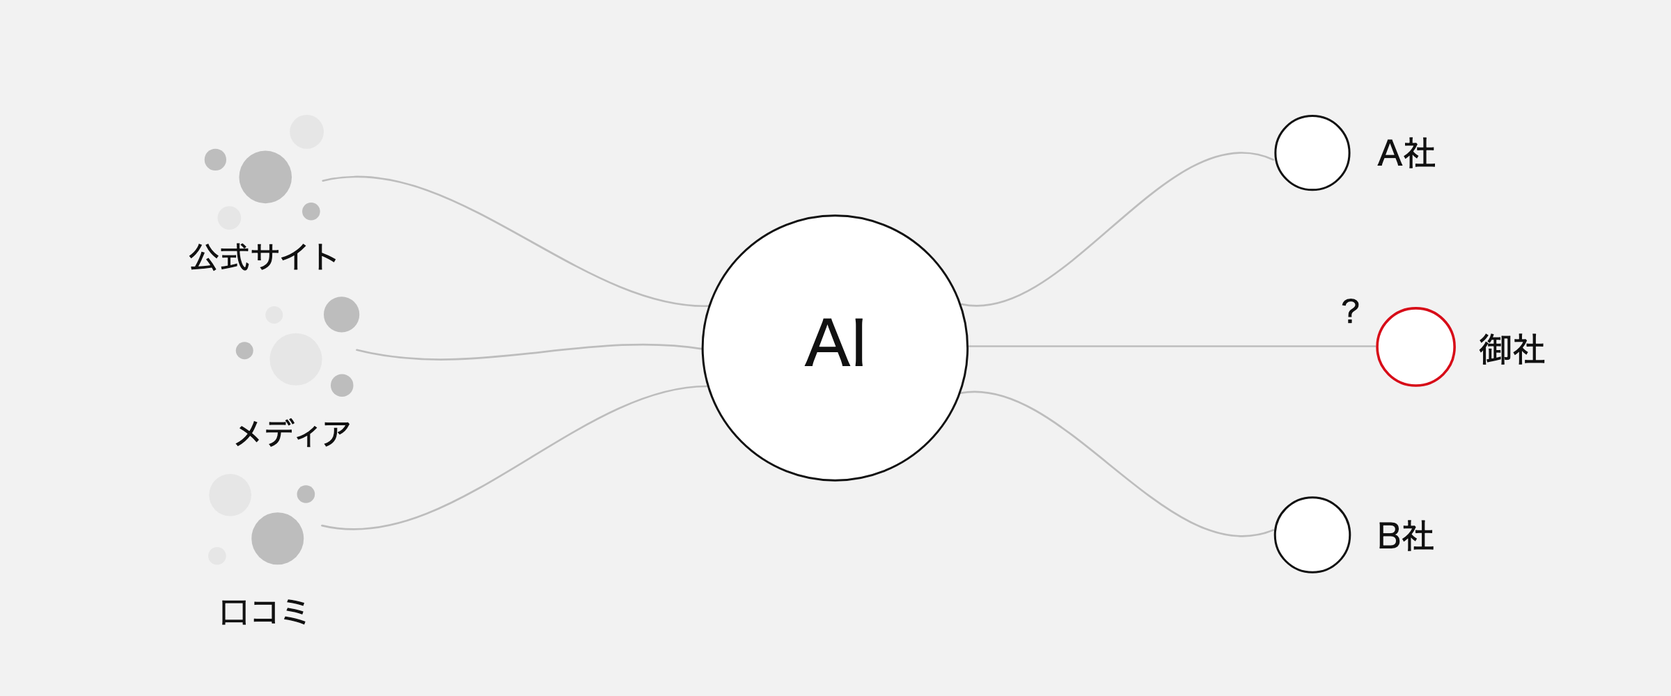
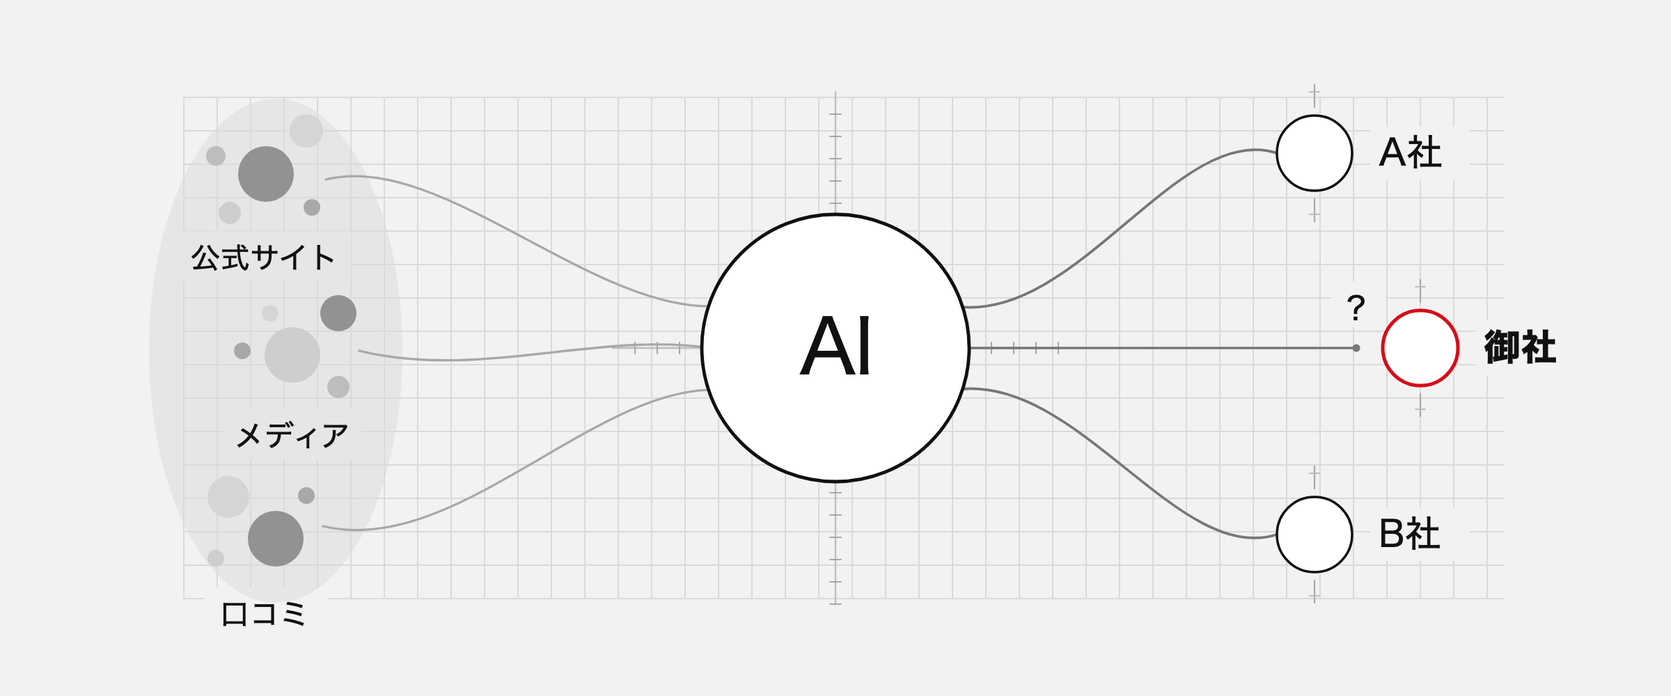
AI検索対策ページ：ヒーローの図を、地図の案に差し替え

diff --git a/ai-search.html b/ai-search.html
@@ -4,7 +4,7 @@
 <nav class="nav" id="site-nav"><div class="business-nav">
 <div class="business-nav-heading"><a href="index.html#business" id="business-link">事業</a><button aria-controls="business-submenu" aria-expanded="false" aria-label="事業のメニューを開閉" class="business-toggle" type="button"></button></div>
 <div class="business-submenu" id="business-submenu" inert=""><div class="business-submenu-inner"><ul><li><a href="ai-search.html">AI検索対策</a></li><li><span class="soon-item">音声AI日報 VoyLog（準備中）</span></li></ul></div></div>
-</div><a href="index.html#results">実績</a><a href="index.html#news">ニュース</a><a href="index.html#company">会社概要</a><a class="contact" href="index.html#contact">お問い合わせ</a></nav></div></header><main><section class="ai-hero"><div class="wrap"><p class="crumb"><a href="index.html">トップ</a> / AI検索対策</p><div class="hero-grid"><div><h1><span>AI検索対策</span>ChatGPTなどのAIは、<br/>御社をどう<br class="pc"/>紹介していますか？</h1><p class="answer">AIが御社を正しく紹介するよう、AIの回答とその根拠のページを調べ、対<span class="keep-ending">策を提案します。</span>simpleAは、AI検索を研究し<span class="keep-ending">ている会社です。</span></p><a class="bar-link" href="contact.html">AI検索対策について相談する <span aria-hidden="true">→</span></a></div><figure class="hero-visual"><img src="img/figures/hero.png" alt="AIが会社を紹介する仕組みのイメージ図。公式サイト・メディア・口コミの情報がAIに集まり、AIがA社、B社、御社などの会社を紹介する。御社がどう紹介されているかは、？で示している。" width="2400" height="1000"/><figcaption class="source">図は、イメージです。会社名は架空です。</figcaption></figure></div><nav aria-label="このページの内容" class="page-nav"><a href="#concerns">お悩み</a><a href="#why">なぜ必要か</a><a href="#package">支援内容</a><a href="#features">選ばれる理由</a><a href="#results">成果・実績</a><a href="#faq">よくある質問</a></nav></div></section><section class="ai-section" id="concerns"><div class="wrap"><h2>こんなお悩みはありませんか？</h2><p class="answer">自社が紹介されない理由も、紹介内容が違う理由も、simpleAが、AIの回答と、AIが根拠にしたページを調<span class="keep-ending">べて確かめます。</span></p><figure class="figure-wide"><img src="img/figures/concerns.png" alt="お悩みの吹き出しの絵。「ChatGPTに聞いても、自社の名前が出てこない」「AIが、競合ばかり紹介する」「AIが、古い情報や間違った情報で紹介する」「検索順位は高いのに、問い合わせが減った」「何から手をつければよいか分からない」。" width="2400" height="1000" loading="lazy"/></figure><div class="sr-only"><ul class="concern-list"><li><p>ChatGPTに聞いても、<br/>自社の名前が出てこない</p></li><li><p>AIが、競合ばかり<br/>紹介する</p></li><li><p>AIが、古い情報や間違った情報で<br/>紹介する</p></li><li><p>検索順位は高いのに、<br/>問い合わせが減った</p></li><li><p>何から手をつければ<br/>よいか分からない</p></li></ul></div></div></section><section class="ai-section soft" id="why"><div class="wrap"><h2>Google検索対策とAI検索対策は同じ？</h2><p class="answer">同じではありません。検索で上位でも、AIの回答に入る<span class="keep-ending">とは限りません。</span>商品や取引先をAIに相談する人がいるので、検索順位に加えて、AIが御社をどう紹介しているかも確かめる<span class="keep-ending">必要があります。</span></p><figure class="figure-wide"><img src="img/figures/compare.png" alt="検索とAIの違いの絵。左の従来の検索では、お客さまが何十件ものリンクを1社ずつ見て絞る。右のAIへの相談では、AIがA社を1社だけおすすめし、お客さまがその1社を選ぶ。御社は、おすすめされていない。" width="2400" height="960" loading="lazy"/><figcaption class="source">探し方の違いを示すイメージです。AIが紹介する社数は質問・サービスによって変わります。<a href="https://www.link-j.org/member_event/article-54489.html">関連するセミナーの説明（LINK-J）</a></figcaption></figure><div class="statistics"><figure class="data-figure"><h3>検索の手段として生成AIを使う人</h3><div aria-label="検索の手段として生成AIを使う人。2025年5月 21.3%、2026年8月 52.3%。すべて0から100%の共通尺度。" class="bars" role="img"><div class="bar-row"><span>2025年5月</span><div class="bar-track"><i class="" style="width:21.3%"></i></div><strong>21.3%</strong></div><div class="bar-row"><span>2026年8月</span><div class="bar-track"><i class="current" style="width:52.3%"></i></div><strong>52.3%</strong></div></div><figcaption class="source">出所：<a href="https://www.cyberagent-adagency.com/news/1043/">サイバーエージェント（2026年9月4日）</a>。2026年8月期は全国9,278人、AI Modeを含む。</figcaption></figure><figure class="data-figure"><h3>Googleより先にAIで調べ始める<br/>B2Bソフトウェア購入担当者</h3><div aria-label="Googleより先にAIで調べ始めるB2Bソフトウェア購入担当者。2025年 29%、2026年 51%。すべて0から100%の共通尺度。" class="bars" role="img"><div class="bar-row"><span>2025年</span><div class="bar-track"><i class="" style="width:29%"></i></div><strong>29%</strong></div><div class="bar-row"><span>2026年</span><div class="bar-track"><i class="current" style="width:51%"></i></div><strong>51%</strong></div></div><figcaption class="source">出所：<a href="https://learn.g2.com/g2-2026-ai-search-insight-report">G2「The Answer Economy」</a>。2026年3月、購入判断に関わる1,076人を調査。</figcaption></figure><figure class="data-figure"><h3>検索結果をクリックせずに終わった、<br/>米国のGoogle検索の割合</h3><div aria-label="検索結果をクリックせずに終わった、米国のGoogle検索の割合。2024年 60%、2026年1〜4月 68%。すべて0から100%の共通尺度。" class="bars" role="img"><div class="bar-row"><span>2024年</span><div class="bar-track"><i class="" style="width:60%"></i></div><strong>60%</strong></div><div class="bar-row"><span>2026年1〜4月</span><div class="bar-track"><i class="current" style="width:68%"></i></div><strong>68%</strong></div></div><figcaption class="source">出所：<a href="https://sparktoro.com/blog/zero-click-search-what-still-works/">SparkToro（2026年6月9日）</a>。米国のGoogle検索が対象。2024年とは、調査会社が集めた回答<span class="keep-ending">者が異なります。</span>AIだけの影響を示す値ではありません。</figcaption></figure></div><p class="source">グラフの棒は、いずれも0〜100%<span class="keep-ending">の同じ尺度です。</span>対象者・地域・調査方法が異なるため、3つの調査の数値同士は<span class="keep-ending">比較できません。</span></p><details class="research-note"><summary>AIが公式情報と異なる内容を答えることもあります</summary><p>simpleAの調査では、AIが書いた乳酸菌の学名86件のうち5件が、公式資料と異<span class="keep-ending">なっていました。</span></p><p class="source">出所：simpleA調査（2026年<span class="keep-ending">10月21日）。</span>4つのAIに50問ずつ質問し、公式資料で確認できた学名の記述86件<span class="keep-ending">を照合しました。</span>一致は74件、不一致は5件、判定できなかっ<span class="keep-ending">たのは7件です。</span>AI全体の正確さを示すもの<span class="keep-ending">ではありません。</span></p></details></div></section><section class="ai-section" id="package"><div class="wrap"><h2><span class="heading-phrase">何をしてもらえますか？</span><span class="heading-phrase">どのくらいかかりますか？</span></h2><p class="answer">サービスは2つあります。1つ目は、調査・改善支援・効果検証をセットにした「3か月支援パッケージ」。2つ目は、そのあとも続けて支援する「顧問契約」です。</p><p class="flow-duration"><span>サービス1　3か月支援パッケージ</span><span aria-hidden="true" class="duration-rule"></span><span>調査から効果検証まで、最短3か月</span></p><figure class="figure-wide"><img src="img/figures/service3.png" alt="サービスの3つのステップの絵。01 調査：simpleAがAIの回答に自社と競合がどう出るかを調べる。02 改善支援：simpleAが改善仕様書を作って改修の内容を説明する。03 効果検証：simpleAが同じ質問で対策の前と後を比べる。" width="2400" height="900" loading="lazy"/><figcaption class="source">対策前・対策後の絵は、イメージです。実績値ではありません。</figcaption></figure><ol aria-label="調査、改善支援、効果検証の順に進めます" class="service-flow"><li><h3><span>01</span>調査</h3><h4>AIは、自社と競合をどう紹介しているか</h4><p>複数のAIの回答と、その根拠のペー<span class="keep-ending">ジを解析します。</span>AIが紹介している内容と、間違いがな<span class="keep-ending">いかを調べます。</span></p><div class="deliverables"><p>選べる納品物</p><ul><li>AI検索対策 自社WEBサイト評価レポート</li><li>競合WEBサイト分析レポート</li><li>全質問とAI回答のリスト</li></ul></div></li><li><h3><span>02</span>改善支援</h3><h4>直す内容と優先順位を決める</h4><p>改善仕様書を作ります。御社または制作パートナーが改修するときは、内容を説明し、仕上が<span class="keep-ending">りを確認します。</span></p><div class="deliverables"><p>選べる納品物</p><ul><li>既存WEBサイトの詳細改善仕様書</li><li>紹介を依頼するとよい外部メディアのリスト</li></ul></div></li><li><h3><span>03</span>効果検証</h3><h4>同じ条件で、前後を比べる</h4><p>同じ質問でもう一度調べ、AIの回答に引用される割合と、AIの間違いの有無を、対策の<span class="keep-ending">前後で比べます。</span></p><div class="deliverables"><p>選べる納品物</p><ul><li>各種レポートの対策前後比較</li></ul></div></li></ol><p class="deliverable-intro">納品物は、上記の6項目から必要に<span class="keep-ending">応じて選べます。</span></p><div class="advisory"><p class="flow-duration"><span>サービス2　顧問契約</span><span aria-hidden="true" class="duration-rule"></span><span>3か月支援パッケージのあとも、長期的に</span></p><ul><li>3か月支援パッケージの終了後も、一緒に取り組みながら支援します。</li><li>コーポレート全体のAI検索対策を、幅広く長期的に支援します。</li><li>マスメディア、人材紹介、不動産関連、自治体など、日々多くの情報を発信している会社には、最初から顧問契約をおすすめする<span class="keep-ending">場合があります。</span>特定のページを短期間で調査・改善する<span class="keep-ending">のではなく、</span>中長期的な取り組みが必要<span class="keep-ending">になるためです。</span></li></ul></div><p class="source">期間は<span class="keep-ending">最短の目安です。</span>外部メディアに掲載されることや、AIが御社を紹介することを、保証するもの<span class="keep-ending">ではありません。</span></p></div></section><section class="ai-section" id="features"><div class="wrap"><h2>AI検索対策の会社は、何で選べばよいですか？</h2><p class="answer">simpleAは、研究と実測の結果を示しながら、実際に効果のある<span class="keep-ending">対策を選びます。</span>制作の受注は目的にせず、調査・提案と、制作の<span class="keep-ending">支援を行います。</span></p><div class="reason-list"><article><div><h3>AI検索を研究している</h3><p>代表<span class="keep-ending">は博士（工学）。</span>論文を読み、複数のAIに実際に質問して、AIがどの情報を根拠に答えているかを<span class="keep-ending">確かめています。</span></p></div><img src="img/figures/kijun.png" alt="基準の絵。simpleAが、論文・公開調査と自社での実測から基準をつくり、ほぼ毎週更新する。" width="2400" height="800" loading="lazy"/></article><article><div><h3>実際に効果のある対策だけを選ぶ</h3><p>論文と自社調査の結果から、効果が確かめられた対策をまとめた、simpleA独自の基準をつくり、ほぼ毎週<span class="keep-ending">更新しています。</span>この基準をもとに、<span class="keep-ending">対策を選びます。</span></p></div></article><article><div><h3>制作は支援する</h3><p>simpleAは、調べる側の立場で、必要な対<span class="keep-ending">策を提案します。</span>制作・改修そのものは基本的に<span class="keep-ending">請け負いません。</span>その代わり、改善仕様書を作り、制作の内容を説明し、仕上が<span class="keep-ending">りを確認します。</span>制作は、御社または制作パート<span class="keep-ending">ナーが行います。</span></p></div><img src="img/figures/roles.png" alt="役割分担の絵。simpleAが調べて提案し、御社または制作会社が改修し、simpleAが仕上がりを確認する。" width="2400" height="900" loading="lazy"/></article></div><p class="source research-example"><strong>たとえば、llms.txt（AI向けの案内ファイル）は、設置を推奨し<span class="keep-ending">ていません。</span></strong> 約30万のサイトを調べた分析では、このファイルを置いているサイトと置いていないサイトで、AIが根拠に選ぶ頻度に明確な差は見つ<span class="keep-ending">かりませんでした。</span>出所：<a href="https://seranking.com/blog/llms-txt/">SE Ranking（2025年11月）</a>。ファイルの有無とAIの選ぶ頻度の関係を見た調査で、原因と結果までは証明し<span class="keep-ending">ていません。</span></p><h3 class="subheading">何を調べて、対策を決めますか？</h3><p>simpleAは、お客さまの質問、AIが根拠にしたページ、自社サイト以外の情報、AIが読めない<span class="keep-ending">情報を調べます。</span></p><div class="investigation"><article><div><h4>どんな質問で調べますか？</h4><p>お客さまが実際に使う問い合わせや検索の言葉から質問を作り、検討が進む段階ごとに質問を<span class="keep-ending">変えて調べます。</span></p><p class="source">絵の質問は、弁護士探しを例にした、イメージです。</p></div><img src="img/figures/questions.png" alt="質問の絵。弁護士を探す場面で、検討が進むほど質問に条件が増える。調べ始めは「おすすめの弁護士を教えて」、比べるは「相続に強い弁護士を教えて」、決めるは「近くで、相続に強く、初回相談が無料の弁護士を教えて」。" width="1600" height="960" loading="lazy"/></article><article><div><h4>どのページを調べますか？</h4><p>AIが根拠に挙げた2,000件以上のページを、す<span class="keep-ending">べて解析します。</span>御社のサイトに足りない点と、競合サイトの強<span class="keep-ending">みを確認します。</span></p></div><img src="img/figures/pages.png" alt="根拠ページの絵。simpleAが、AIが根拠にしたページをすべて集めて解析する。A社のサービス紹介、専門メディアの比較記事、御社の掲載の有無を、URLごとに照合する。" width="1600" height="960" loading="lazy"/></article><article><div><h4>自社サイトの外も見ますか？</h4><p>専門メディア・比較サイト・口コミが、AIの回答の根拠になってい<span class="keep-ending">るかも調べます。</span></p></div><img src="img/figures/outside.png" alt="公式サイトと外部サイトの絵。AIは、公式サイト（会社・商品の情報）以外に、外部サイト（メディア・口コミ）の情報も根拠にして答えることがある。" width="1600" height="960" loading="lazy"/></article><article><div><h4>AIが間違えて答える原因も調べますか？</h4><p>AIが読めない情報や、古い情報が残っていない<span class="keep-ending">かを確認します。</span>確かめた事実と、原因についての推測を分<span class="keep-ending">けて報告します。</span></p></div><img src="img/figures/old.png" alt="古い情報の絵。AIが、更新日が2023年4月1日の旧サービスのご案内のページを読んで、間違った回答をする。" width="1600" height="960" loading="lazy"/></article></div><p class="source">出所：simpleA提案資料（20<span class="keep-ending">26年10月）。</span>「2,000件以上」は1回の調査<span class="keep-ending">規模の目安です。</span></p></div></section><section class="ai-section soft" id="results"><div class="wrap"><h2>実際に、どんな成果が出ていますか？</h2><p class="answer">アニサキスアレルギー協会のサイトがChatGPTの回答に引用された割合は、同じ57問で、2026年7月の42.1%から10月の78.9<span class="keep-ending">%になりました。</span></p><div class="result-grid"><figure class="data-figure"><h3>ChatGPTの回答に協会サイトが引用された割合</h3><div aria-label="ChatGPTの回答に協会サイトが引用された割合。2026年7月 42.1%、2026年10月 78.9%。すべて0から100%の共通尺度。" class="bars" role="img"><div class="bar-row"><span>2026年7月</span><div class="bar-track"><i class="" style="width:42.1%"></i></div><strong>42.1%</strong></div><div class="bar-row"><span>2026年10月</span><div class="bar-track"><i class="current" style="width:78.9%"></i></div><strong>78.9%</strong></div></div><figcaption class="source">出所：simpleA調査。57問中24問（7月14日）／45問（10月1日）。同じ条件で、各日1回ず<span class="keep-ending">つ測定しました。</span>測定は1回ずつなので、数字には<span class="keep-ending">誤差があります。</span>ページを改修したことだけが原因とは<span class="keep-ending">言い切れません。</span></figcaption></figure><a class="case-link" href="case-ai-search.html"><img alt="アニサキスアレルギー協会サイトの画面" height="360" src="img/case/aaa-site.jpg" width="640"/><span>公開事例</span><h3>一般社団法人<br/>アニサキスアレルギー協会</h3><p>同じ57問で、協会のサイトが引用された回答は24<span class="keep-ending">問から45問へ。</span></p><span class="read-more">詳しく見る →</span></a></div><h3 class="subheading">どんな業界を支援していますか？</h3><p class="industry-copy">食品・飲料メーカー／産業用機械メーカー／士業（行政書士など）／建設業を支<span class="keep-ending">援してきました。</span></p><div aria-label="支援してきた4業界：食品・飲料メーカー、産業用機械メーカー、士業、建設業" class="industry-diagram" role="img"><span>食品・飲料メーカー</span><span>産業用機械メーカー</span><span>士業（行政書士など）</span><span>建設業</span><strong>AI検索の調査・対策支援</strong></div><h3 class="subheading">どんな企業と協業していますか？</h3><ul class="partner-list">
+</div><a href="index.html#results">実績</a><a href="index.html#news">ニュース</a><a href="index.html#company">会社概要</a><a class="contact" href="index.html#contact">お問い合わせ</a></nav></div></header><main><section class="ai-hero"><div class="wrap"><p class="crumb"><a href="index.html">トップ</a> / AI検索対策</p><div class="hero-grid"><div><h1><span>AI検索対策</span>ChatGPTなどのAIは、<br/>御社をどう<br class="pc"/>紹介していますか？</h1><p class="answer">AIが御社を正しく紹介するよう、AIの回答とその根拠のページを調べ、対<span class="keep-ending">策を提案します。</span>simpleAは、AI検索を研究し<span class="keep-ending">ている会社です。</span></p><a class="bar-link" href="contact.html">AI検索対策について相談する <span aria-hidden="true">→</span></a></div><figure class="hero-visual"><img src="img/figures/hero.png?v=2" alt="AIが会社を紹介する仕組みのイメージ図。公式サイト・メディア・口コミの情報がAIに集まり、AIがA社、B社、御社などの会社を紹介する。御社がどう紹介されているかは、？で示している。" width="2400" height="1000"/><figcaption class="source">図は、イメージです。会社名は架空です。</figcaption></figure></div><nav aria-label="このページの内容" class="page-nav"><a href="#concerns">お悩み</a><a href="#why">なぜ必要か</a><a href="#package">支援内容</a><a href="#features">選ばれる理由</a><a href="#results">成果・実績</a><a href="#faq">よくある質問</a></nav></div></section><section class="ai-section" id="concerns"><div class="wrap"><h2>こんなお悩みはありませんか？</h2><p class="answer">自社が紹介されない理由も、紹介内容が違う理由も、simpleAが、AIの回答と、AIが根拠にしたページを調<span class="keep-ending">べて確かめます。</span></p><figure class="figure-wide"><img src="img/figures/concerns.png" alt="お悩みの吹き出しの絵。「ChatGPTに聞いても、自社の名前が出てこない」「AIが、競合ばかり紹介する」「AIが、古い情報や間違った情報で紹介する」「検索順位は高いのに、問い合わせが減った」「何から手をつければよいか分からない」。" width="2400" height="1000" loading="lazy"/></figure><div class="sr-only"><ul class="concern-list"><li><p>ChatGPTに聞いても、<br/>自社の名前が出てこない</p></li><li><p>AIが、競合ばかり<br/>紹介する</p></li><li><p>AIが、古い情報や間違った情報で<br/>紹介する</p></li><li><p>検索順位は高いのに、<br/>問い合わせが減った</p></li><li><p>何から手をつければ<br/>よいか分からない</p></li></ul></div></div></section><section class="ai-section soft" id="why"><div class="wrap"><h2>Google検索対策とAI検索対策は同じ？</h2><p class="answer">同じではありません。検索で上位でも、AIの回答に入る<span class="keep-ending">とは限りません。</span>商品や取引先をAIに相談する人がいるので、検索順位に加えて、AIが御社をどう紹介しているかも確かめる<span class="keep-ending">必要があります。</span></p><figure class="figure-wide"><img src="img/figures/compare.png" alt="検索とAIの違いの絵。左の従来の検索では、お客さまが何十件ものリンクを1社ずつ見て絞る。右のAIへの相談では、AIがA社を1社だけおすすめし、お客さまがその1社を選ぶ。御社は、おすすめされていない。" width="2400" height="960" loading="lazy"/><figcaption class="source">探し方の違いを示すイメージです。AIが紹介する社数は質問・サービスによって変わります。<a href="https://www.link-j.org/member_event/article-54489.html">関連するセミナーの説明（LINK-J）</a></figcaption></figure><div class="statistics"><figure class="data-figure"><h3>検索の手段として生成AIを使う人</h3><div aria-label="検索の手段として生成AIを使う人。2025年5月 21.3%、2026年8月 52.3%。すべて0から100%の共通尺度。" class="bars" role="img"><div class="bar-row"><span>2025年5月</span><div class="bar-track"><i class="" style="width:21.3%"></i></div><strong>21.3%</strong></div><div class="bar-row"><span>2026年8月</span><div class="bar-track"><i class="current" style="width:52.3%"></i></div><strong>52.3%</strong></div></div><figcaption class="source">出所：<a href="https://www.cyberagent-adagency.com/news/1043/">サイバーエージェント（2026年9月4日）</a>。2026年8月期は全国9,278人、AI Modeを含む。</figcaption></figure><figure class="data-figure"><h3>Googleより先にAIで調べ始める<br/>B2Bソフトウェア購入担当者</h3><div aria-label="Googleより先にAIで調べ始めるB2Bソフトウェア購入担当者。2025年 29%、2026年 51%。すべて0から100%の共通尺度。" class="bars" role="img"><div class="bar-row"><span>2025年</span><div class="bar-track"><i class="" style="width:29%"></i></div><strong>29%</strong></div><div class="bar-row"><span>2026年</span><div class="bar-track"><i class="current" style="width:51%"></i></div><strong>51%</strong></div></div><figcaption class="source">出所：<a href="https://learn.g2.com/g2-2026-ai-search-insight-report">G2「The Answer Economy」</a>。2026年3月、購入判断に関わる1,076人を調査。</figcaption></figure><figure class="data-figure"><h3>検索結果をクリックせずに終わった、<br/>米国のGoogle検索の割合</h3><div aria-label="検索結果をクリックせずに終わった、米国のGoogle検索の割合。2024年 60%、2026年1〜4月 68%。すべて0から100%の共通尺度。" class="bars" role="img"><div class="bar-row"><span>2024年</span><div class="bar-track"><i class="" style="width:60%"></i></div><strong>60%</strong></div><div class="bar-row"><span>2026年1〜4月</span><div class="bar-track"><i class="current" style="width:68%"></i></div><strong>68%</strong></div></div><figcaption class="source">出所：<a href="https://sparktoro.com/blog/zero-click-search-what-still-works/">SparkToro（2026年6月9日）</a>。米国のGoogle検索が対象。2024年とは、調査会社が集めた回答<span class="keep-ending">者が異なります。</span>AIだけの影響を示す値ではありません。</figcaption></figure></div><p class="source">グラフの棒は、いずれも0〜100%<span class="keep-ending">の同じ尺度です。</span>対象者・地域・調査方法が異なるため、3つの調査の数値同士は<span class="keep-ending">比較できません。</span></p><details class="research-note"><summary>AIが公式情報と異なる内容を答えることもあります</summary><p>simpleAの調査では、AIが書いた乳酸菌の学名86件のうち5件が、公式資料と異<span class="keep-ending">なっていました。</span></p><p class="source">出所：simpleA調査（2026年<span class="keep-ending">10月21日）。</span>4つのAIに50問ずつ質問し、公式資料で確認できた学名の記述86件<span class="keep-ending">を照合しました。</span>一致は74件、不一致は5件、判定できなかっ<span class="keep-ending">たのは7件です。</span>AI全体の正確さを示すもの<span class="keep-ending">ではありません。</span></p></details></div></section><section class="ai-section" id="package"><div class="wrap"><h2><span class="heading-phrase">何をしてもらえますか？</span><span class="heading-phrase">どのくらいかかりますか？</span></h2><p class="answer">サービスは2つあります。1つ目は、調査・改善支援・効果検証をセットにした「3か月支援パッケージ」。2つ目は、そのあとも続けて支援する「顧問契約」です。</p><p class="flow-duration"><span>サービス1　3か月支援パッケージ</span><span aria-hidden="true" class="duration-rule"></span><span>調査から効果検証まで、最短3か月</span></p><figure class="figure-wide"><img src="img/figures/service3.png" alt="サービスの3つのステップの絵。01 調査：simpleAがAIの回答に自社と競合がどう出るかを調べる。02 改善支援：simpleAが改善仕様書を作って改修の内容を説明する。03 効果検証：simpleAが同じ質問で対策の前と後を比べる。" width="2400" height="900" loading="lazy"/><figcaption class="source">対策前・対策後の絵は、イメージです。実績値ではありません。</figcaption></figure><ol aria-label="調査、改善支援、効果検証の順に進めます" class="service-flow"><li><h3><span>01</span>調査</h3><h4>AIは、自社と競合をどう紹介しているか</h4><p>複数のAIの回答と、その根拠のペー<span class="keep-ending">ジを解析します。</span>AIが紹介している内容と、間違いがな<span class="keep-ending">いかを調べます。</span></p><div class="deliverables"><p>選べる納品物</p><ul><li>AI検索対策 自社WEBサイト評価レポート</li><li>競合WEBサイト分析レポート</li><li>全質問とAI回答のリスト</li></ul></div></li><li><h3><span>02</span>改善支援</h3><h4>直す内容と優先順位を決める</h4><p>改善仕様書を作ります。御社または制作パートナーが改修するときは、内容を説明し、仕上が<span class="keep-ending">りを確認します。</span></p><div class="deliverables"><p>選べる納品物</p><ul><li>既存WEBサイトの詳細改善仕様書</li><li>紹介を依頼するとよい外部メディアのリスト</li></ul></div></li><li><h3><span>03</span>効果検証</h3><h4>同じ条件で、前後を比べる</h4><p>同じ質問でもう一度調べ、AIの回答に引用される割合と、AIの間違いの有無を、対策の<span class="keep-ending">前後で比べます。</span></p><div class="deliverables"><p>選べる納品物</p><ul><li>各種レポートの対策前後比較</li></ul></div></li></ol><p class="deliverable-intro">納品物は、上記の6項目から必要に<span class="keep-ending">応じて選べます。</span></p><div class="advisory"><p class="flow-duration"><span>サービス2　顧問契約</span><span aria-hidden="true" class="duration-rule"></span><span>3か月支援パッケージのあとも、長期的に</span></p><ul><li>3か月支援パッケージの終了後も、一緒に取り組みながら支援します。</li><li>コーポレート全体のAI検索対策を、幅広く長期的に支援します。</li><li>マスメディア、人材紹介、不動産関連、自治体など、日々多くの情報を発信している会社には、最初から顧問契約をおすすめする<span class="keep-ending">場合があります。</span>特定のページを短期間で調査・改善する<span class="keep-ending">のではなく、</span>中長期的な取り組みが必要<span class="keep-ending">になるためです。</span></li></ul></div><p class="source">期間は<span class="keep-ending">最短の目安です。</span>外部メディアに掲載されることや、AIが御社を紹介することを、保証するもの<span class="keep-ending">ではありません。</span></p></div></section><section class="ai-section" id="features"><div class="wrap"><h2>AI検索対策の会社は、何で選べばよいですか？</h2><p class="answer">simpleAは、研究と実測の結果を示しながら、実際に効果のある<span class="keep-ending">対策を選びます。</span>制作の受注は目的にせず、調査・提案と、制作の<span class="keep-ending">支援を行います。</span></p><div class="reason-list"><article><div><h3>AI検索を研究している</h3><p>代表<span class="keep-ending">は博士（工学）。</span>論文を読み、複数のAIに実際に質問して、AIがどの情報を根拠に答えているかを<span class="keep-ending">確かめています。</span></p></div><img src="img/figures/kijun.png" alt="基準の絵。simpleAが、論文・公開調査と自社での実測から基準をつくり、ほぼ毎週更新する。" width="2400" height="800" loading="lazy"/></article><article><div><h3>実際に効果のある対策だけを選ぶ</h3><p>論文と自社調査の結果から、効果が確かめられた対策をまとめた、simpleA独自の基準をつくり、ほぼ毎週<span class="keep-ending">更新しています。</span>この基準をもとに、<span class="keep-ending">対策を選びます。</span></p></div></article><article><div><h3>制作は支援する</h3><p>simpleAは、調べる側の立場で、必要な対<span class="keep-ending">策を提案します。</span>制作・改修そのものは基本的に<span class="keep-ending">請け負いません。</span>その代わり、改善仕様書を作り、制作の内容を説明し、仕上が<span class="keep-ending">りを確認します。</span>制作は、御社または制作パート<span class="keep-ending">ナーが行います。</span></p></div><img src="img/figures/roles.png" alt="役割分担の絵。simpleAが調べて提案し、御社または制作会社が改修し、simpleAが仕上がりを確認する。" width="2400" height="900" loading="lazy"/></article></div><p class="source research-example"><strong>たとえば、llms.txt（AI向けの案内ファイル）は、設置を推奨し<span class="keep-ending">ていません。</span></strong> 約30万のサイトを調べた分析では、このファイルを置いているサイトと置いていないサイトで、AIが根拠に選ぶ頻度に明確な差は見つ<span class="keep-ending">かりませんでした。</span>出所：<a href="https://seranking.com/blog/llms-txt/">SE Ranking（2025年11月）</a>。ファイルの有無とAIの選ぶ頻度の関係を見た調査で、原因と結果までは証明し<span class="keep-ending">ていません。</span></p><h3 class="subheading">何を調べて、対策を決めますか？</h3><p>simpleAは、お客さまの質問、AIが根拠にしたページ、自社サイト以外の情報、AIが読めない<span class="keep-ending">情報を調べます。</span></p><div class="investigation"><article><div><h4>どんな質問で調べますか？</h4><p>お客さまが実際に使う問い合わせや検索の言葉から質問を作り、検討が進む段階ごとに質問を<span class="keep-ending">変えて調べます。</span></p><p class="source">絵の質問は、弁護士探しを例にした、イメージです。</p></div><img src="img/figures/questions.png" alt="質問の絵。弁護士を探す場面で、検討が進むほど質問に条件が増える。調べ始めは「おすすめの弁護士を教えて」、比べるは「相続に強い弁護士を教えて」、決めるは「近くで、相続に強く、初回相談が無料の弁護士を教えて」。" width="1600" height="960" loading="lazy"/></article><article><div><h4>どのページを調べますか？</h4><p>AIが根拠に挙げた2,000件以上のページを、す<span class="keep-ending">べて解析します。</span>御社のサイトに足りない点と、競合サイトの強<span class="keep-ending">みを確認します。</span></p></div><img src="img/figures/pages.png" alt="根拠ページの絵。simpleAが、AIが根拠にしたページをすべて集めて解析する。A社のサービス紹介、専門メディアの比較記事、御社の掲載の有無を、URLごとに照合する。" width="1600" height="960" loading="lazy"/></article><article><div><h4>自社サイトの外も見ますか？</h4><p>専門メディア・比較サイト・口コミが、AIの回答の根拠になってい<span class="keep-ending">るかも調べます。</span></p></div><img src="img/figures/outside.png" alt="公式サイトと外部サイトの絵。AIは、公式サイト（会社・商品の情報）以外に、外部サイト（メディア・口コミ）の情報も根拠にして答えることがある。" width="1600" height="960" loading="lazy"/></article><article><div><h4>AIが間違えて答える原因も調べますか？</h4><p>AIが読めない情報や、古い情報が残っていない<span class="keep-ending">かを確認します。</span>確かめた事実と、原因についての推測を分<span class="keep-ending">けて報告します。</span></p></div><img src="img/figures/old.png" alt="古い情報の絵。AIが、更新日が2023年4月1日の旧サービスのご案内のページを読んで、間違った回答をする。" width="1600" height="960" loading="lazy"/></article></div><p class="source">出所：simpleA提案資料（20<span class="keep-ending">26年10月）。</span>「2,000件以上」は1回の調査<span class="keep-ending">規模の目安です。</span></p></div></section><section class="ai-section soft" id="results"><div class="wrap"><h2>実際に、どんな成果が出ていますか？</h2><p class="answer">アニサキスアレルギー協会のサイトがChatGPTの回答に引用された割合は、同じ57問で、2026年7月の42.1%から10月の78.9<span class="keep-ending">%になりました。</span></p><div class="result-grid"><figure class="data-figure"><h3>ChatGPTの回答に協会サイトが引用された割合</h3><div aria-label="ChatGPTの回答に協会サイトが引用された割合。2026年7月 42.1%、2026年10月 78.9%。すべて0から100%の共通尺度。" class="bars" role="img"><div class="bar-row"><span>2026年7月</span><div class="bar-track"><i class="" style="width:42.1%"></i></div><strong>42.1%</strong></div><div class="bar-row"><span>2026年10月</span><div class="bar-track"><i class="current" style="width:78.9%"></i></div><strong>78.9%</strong></div></div><figcaption class="source">出所：simpleA調査。57問中24問（7月14日）／45問（10月1日）。同じ条件で、各日1回ず<span class="keep-ending">つ測定しました。</span>測定は1回ずつなので、数字には<span class="keep-ending">誤差があります。</span>ページを改修したことだけが原因とは<span class="keep-ending">言い切れません。</span></figcaption></figure><a class="case-link" href="case-ai-search.html"><img alt="アニサキスアレルギー協会サイトの画面" height="360" src="img/case/aaa-site.jpg" width="640"/><span>公開事例</span><h3>一般社団法人<br/>アニサキスアレルギー協会</h3><p>同じ57問で、協会のサイトが引用された回答は24<span class="keep-ending">問から45問へ。</span></p><span class="read-more">詳しく見る →</span></a></div><h3 class="subheading">どんな業界を支援していますか？</h3><p class="industry-copy">食品・飲料メーカー／産業用機械メーカー／士業（行政書士など）／建設業を支<span class="keep-ending">援してきました。</span></p><div aria-label="支援してきた4業界：食品・飲料メーカー、産業用機械メーカー、士業、建設業" class="industry-diagram" role="img"><span>食品・飲料メーカー</span><span>産業用機械メーカー</span><span>士業（行政書士など）</span><span>建設業</span><strong>AI検索の調査・対策支援</strong></div><h3 class="subheading">どんな企業と協業していますか？</h3><ul class="partner-list">
 <li><img alt="ファンベースカンパニーの代表との共同の写真" height="440" loading="lazy" src="img/partner/fanbase.jpg" width="660"/><h4>株式会社ファンベースカンパニー</h4><p aria-label="AI検索対策とファンベースを組み合わせて協業" class="pair"><strong>AI検索対策</strong><span aria-hidden="true">＋</span><strong>ファンベース</strong></p><p>企業のファンづくり（ファンベース）<span class="keep-ending">を支援する会社。</span>AI検索対策とファンベースを組み合わせた<span class="keep-ending">取り組みで協業。</span></p><dl class="partner-people"><div><dt>取締役会長／ディレクター</dt><dd>佐藤 尚之</dd></div><div><dt>代表取締役社長／CEO</dt><dd>津田 匡保</dd></div></dl><a class="text-link" href="https://www.fanbasecompany.com/" rel="noopener" target="_blank">公式サイトを見る　↗</a></li>
 <li><img alt="フードメディシン研究所の代表との共同の写真" height="800" loading="lazy" src="img/partner/foodmedi.jpg" width="1200"/><h4>株式会社フードメディシン研究所</h4><p aria-label="AI検索対策と食品免疫・研究資産の発信を組み合わせて協業" class="pair"><strong>AI検索対策</strong><span aria-hidden="true">＋</span><strong>食品免疫・研究資産の発信</strong></p><p>十文字学園女子大学<span class="keep-ending">発ベンチャー。</span>食品免疫・粘膜免疫を専<span class="keep-ending">門としています。</span>simpleAと共同で、「研究成果発信のためのAI検索対策パッケージ（食品・免疫版）」を提供します（2026年11月<span class="keep-ending">1日開始予定）。</span></p><dl class="partner-people"><div><dt>代表取締役</dt><dd>辻 典子（農学博士）</dd></div></dl><a class="text-link" href="https://foodmedi.co.jp/" rel="noopener" target="_blank">公式サイトを見る　↗</a></li>
 </ul><h3 class="subheading">セミナーでも話を聞けますか？</h3><p>simpleAは、佐藤尚之さん（『AIに選ばれ、ファンに愛される。 変わる生活者とこれからのマーケティング』著者）が主宰するコミュニティ「7th」で、セミナーと会員向けの談<span class="keep-ending">話会を続けています。</span>「<a href="https://gyo-gaku.com/">行政書士の学校</a>」をはじめ、各所で講師<span class="keep-ending">を務めています。</span></p><p class="seminar-common">下記のセミナーは、いずれもオンライン（Zoom）で開催し、<span class="keep-ending">参加は無料です。</span>主催は株式会社si<span class="keep-ending">mpleAです。</span></p>
